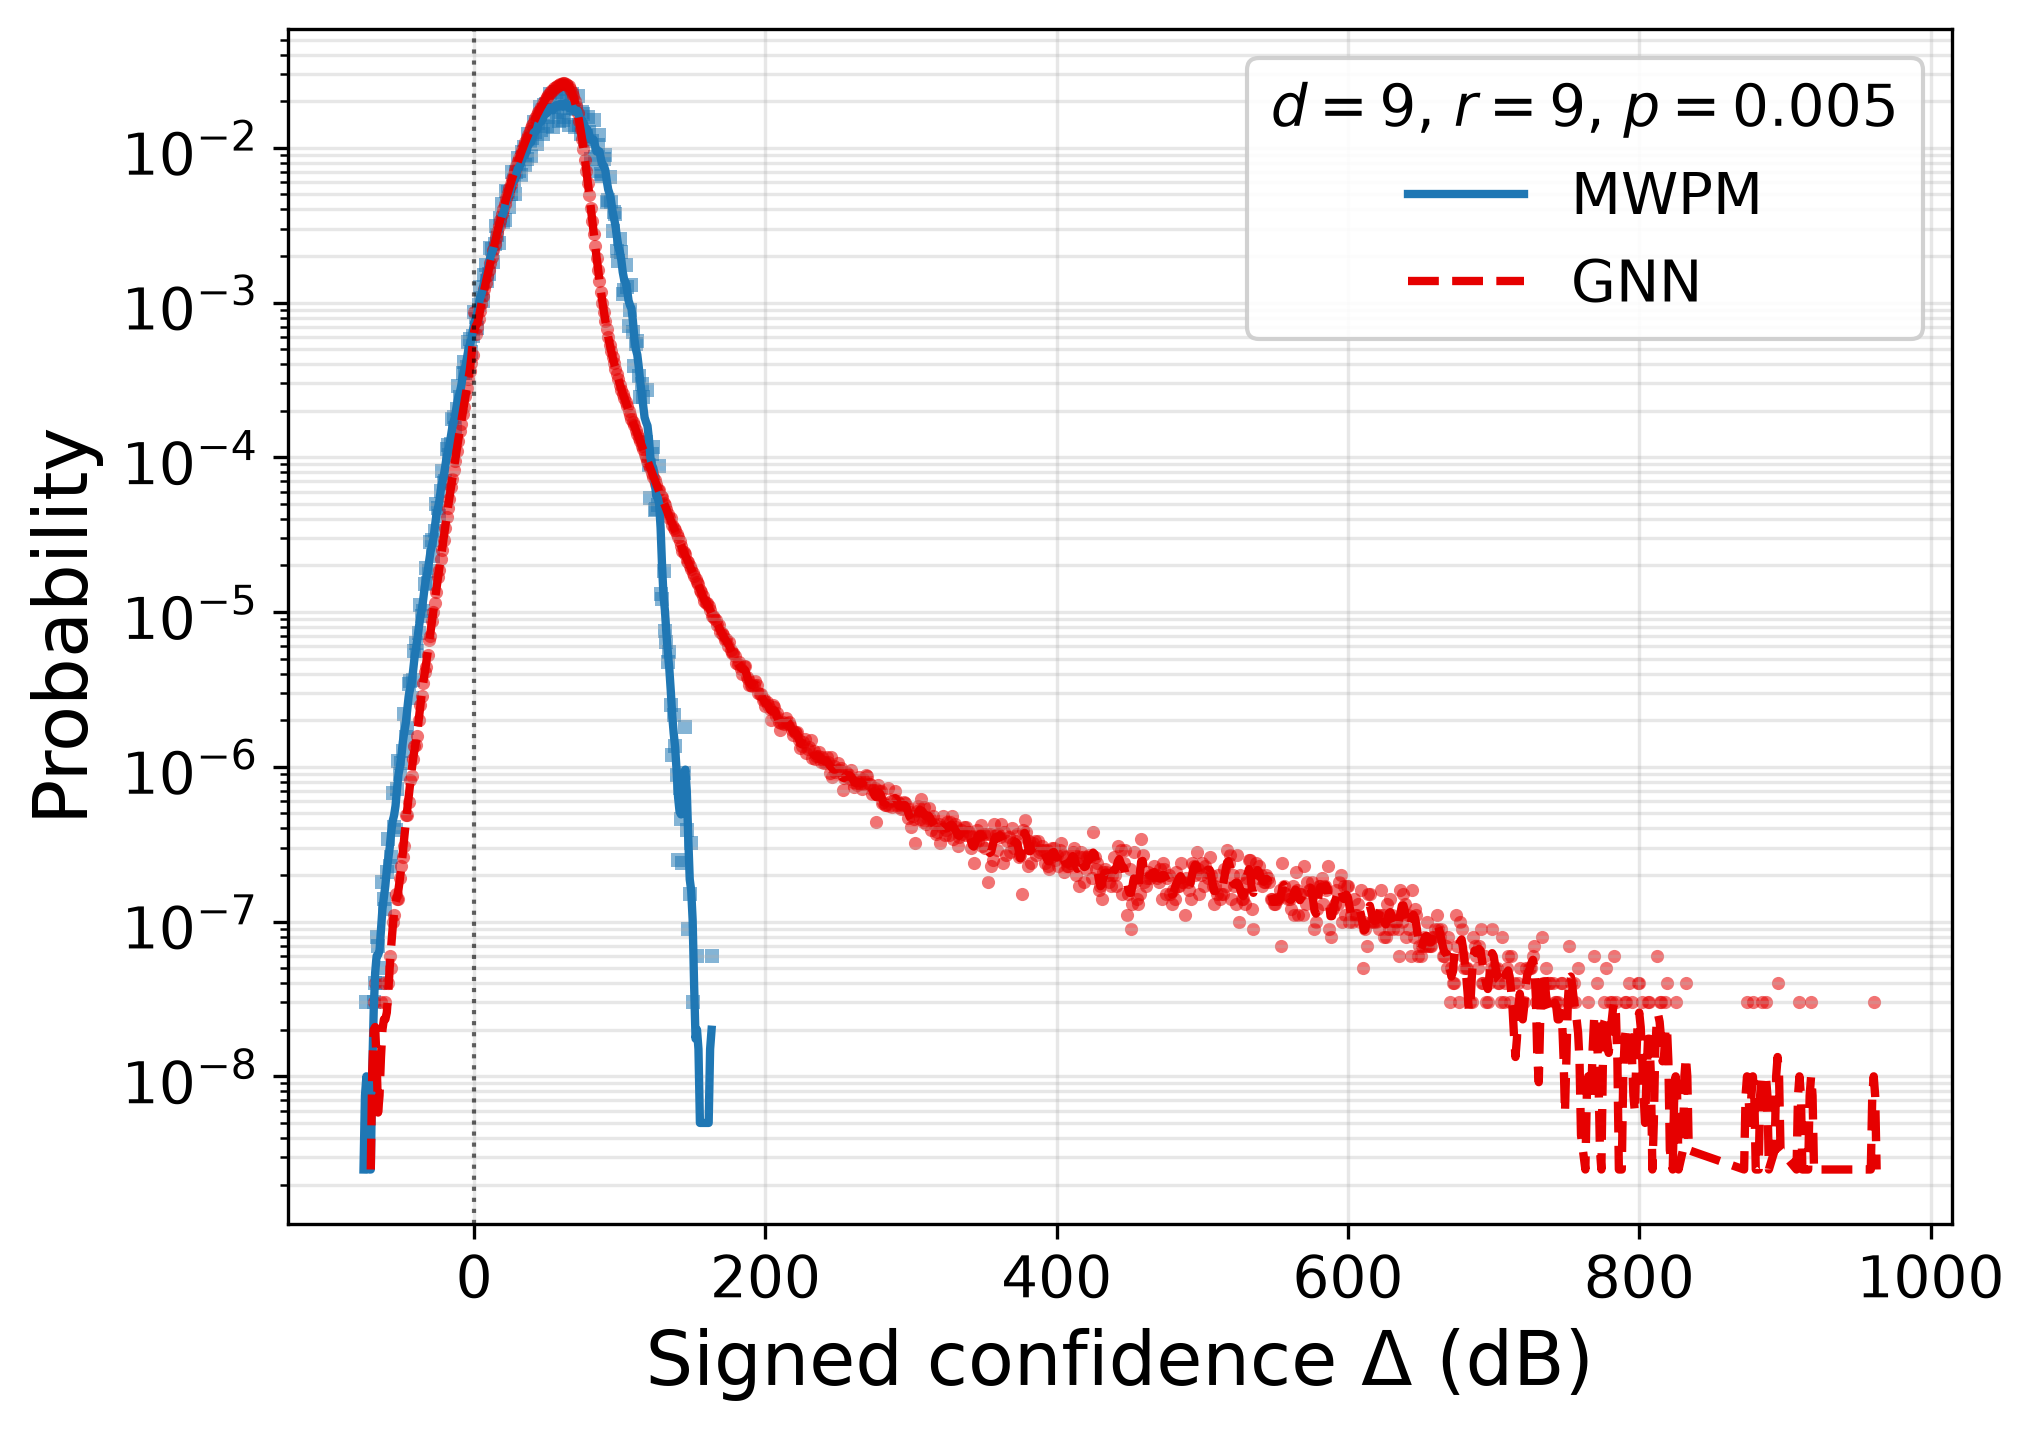
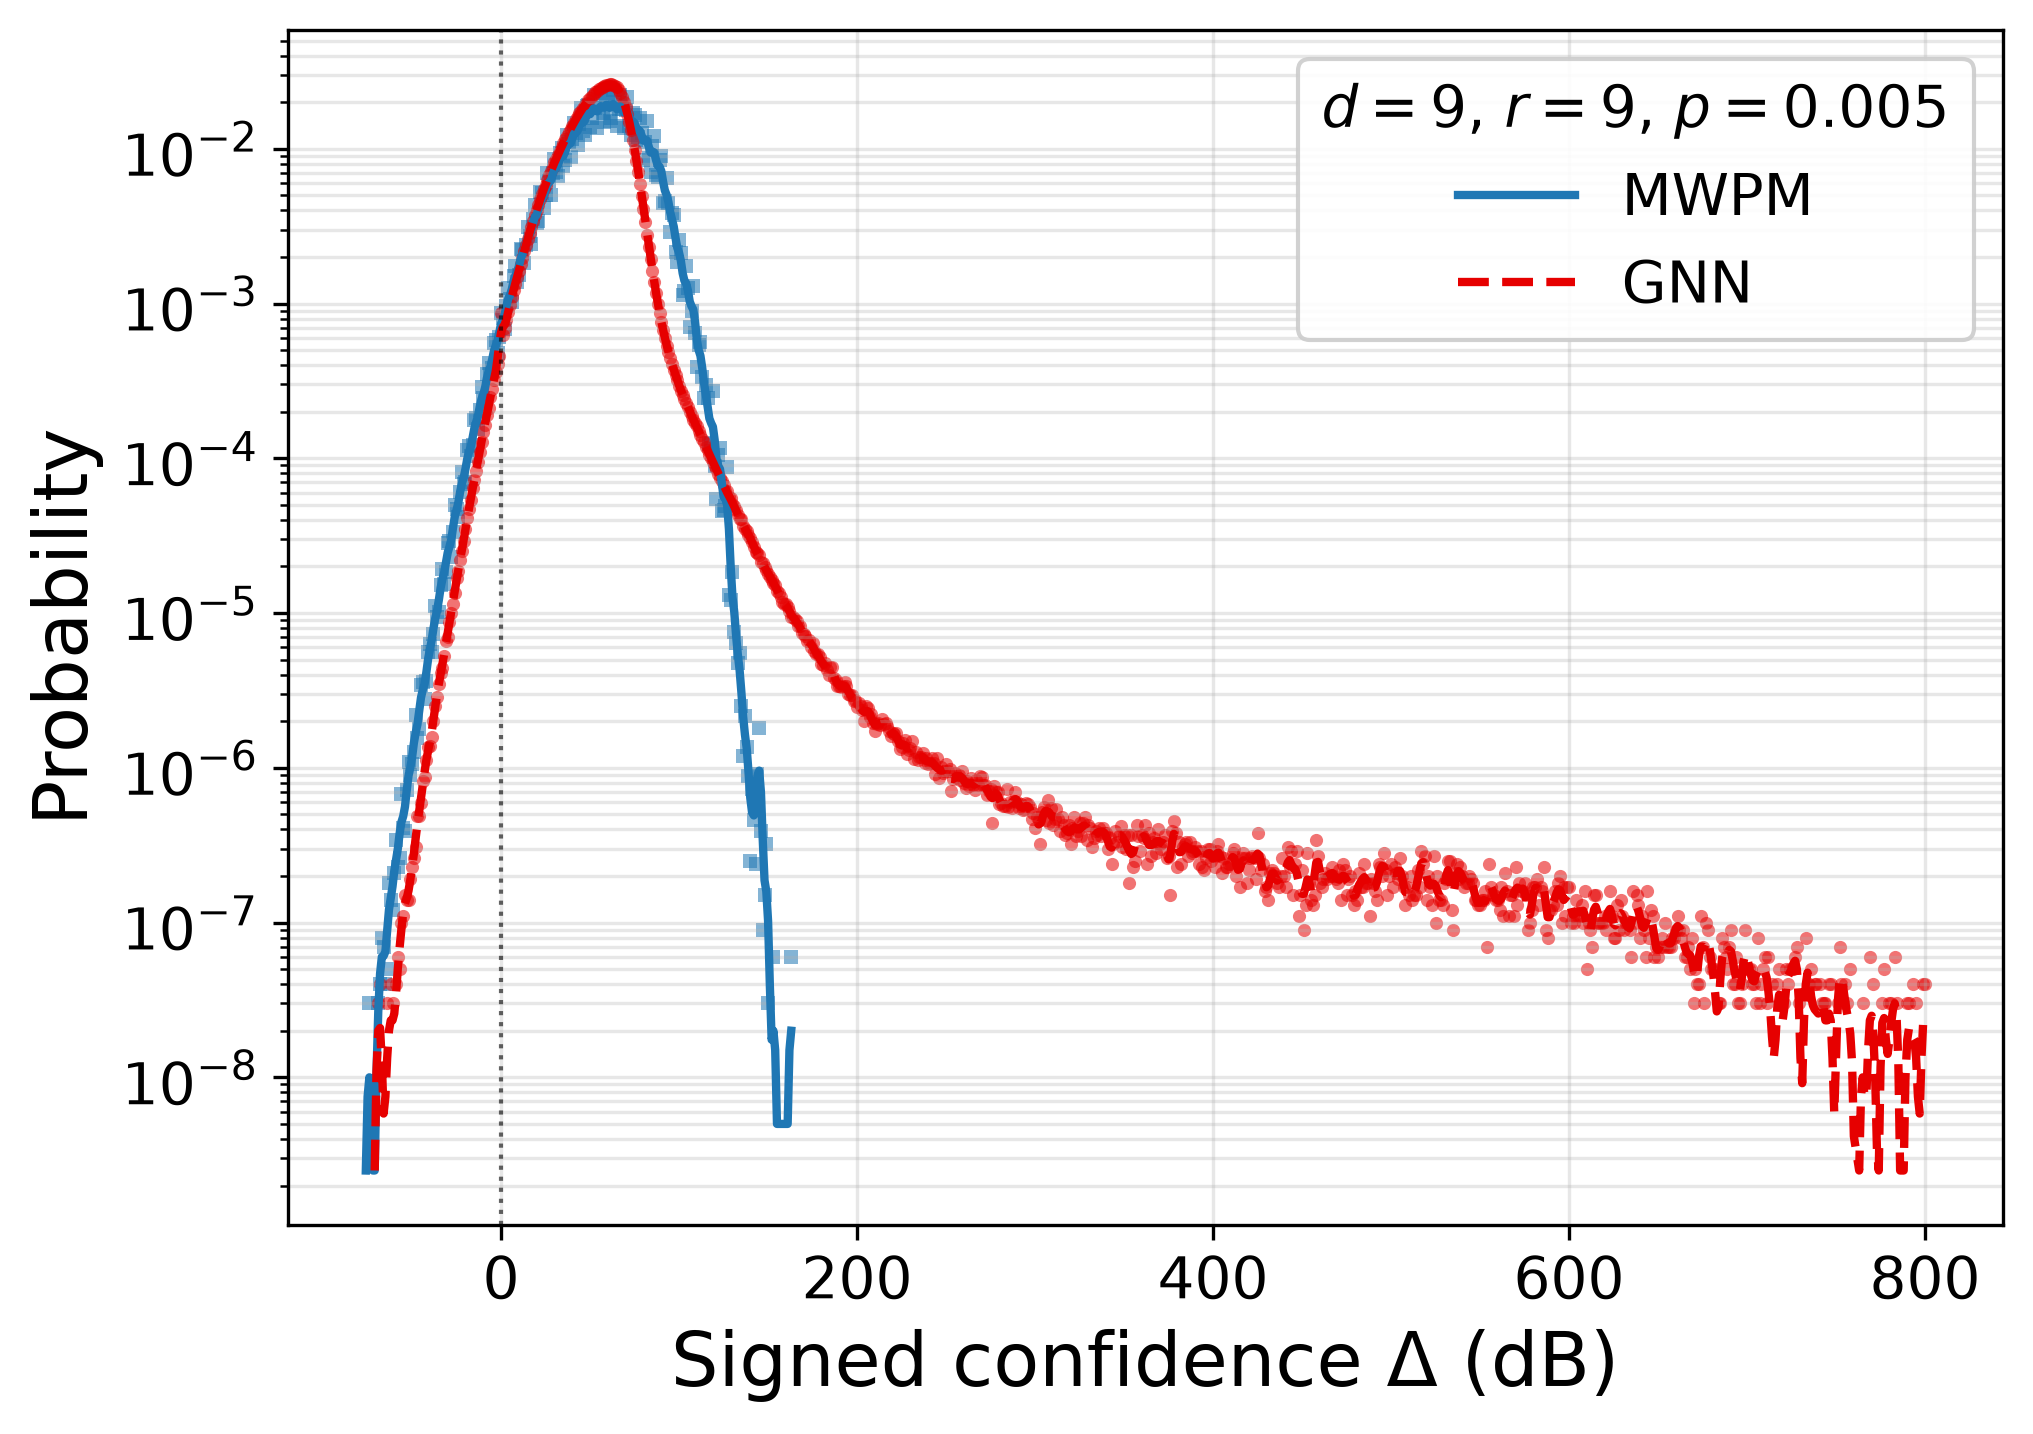
Cap the d=9 signed-distribution axis at 800 dB
Matches the published figure; the previous auto-scaled axis was set by
the sparse extreme tail of the GNN logit.

diff --git a/make_fig3.py b/make_fig3.py
@@ -195,7 +195,7 @@ def plot_signed_gap_distribution_many(
         },
     }
 
-    xcap_map  = {7: 500, 9: 2000}
+    xcap_map  = {7: 500, 9: 800}
 
     for d, dt in configs:
         x_cap = xcap_map.get(d, None)
